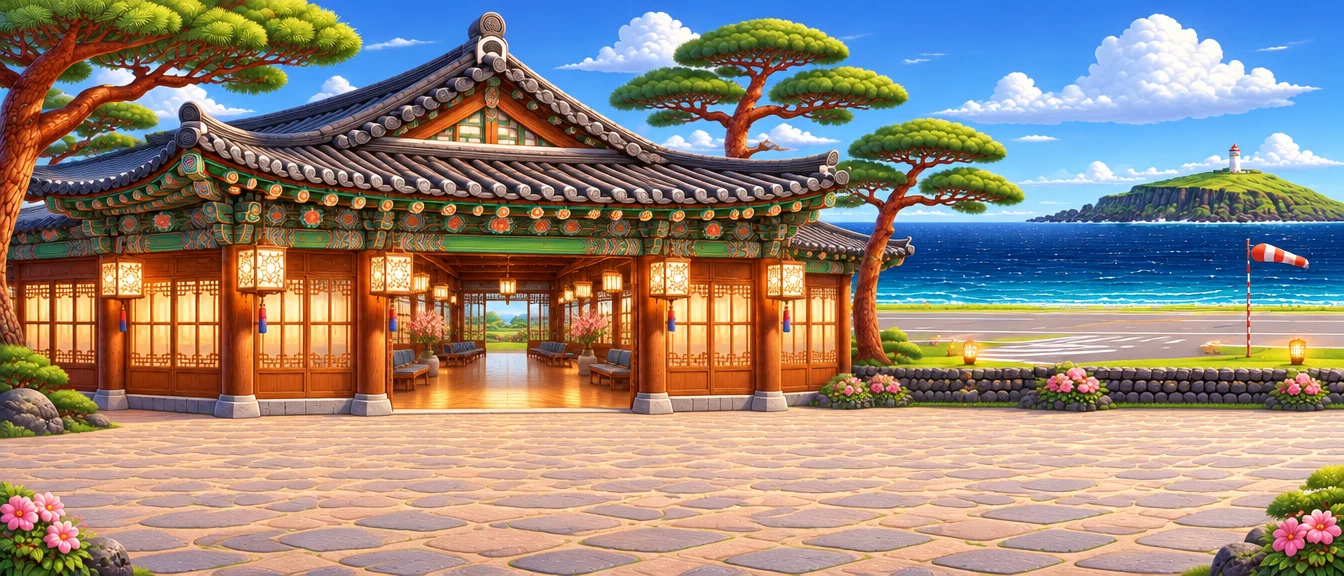
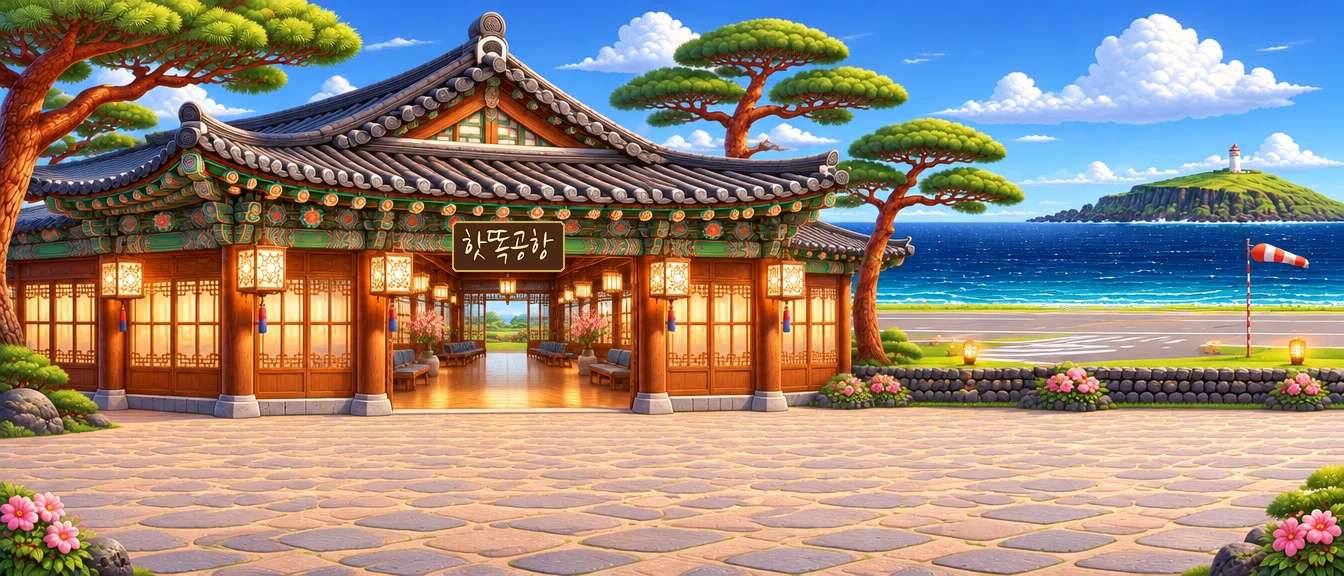
핫똑랜드 예시판: 내리면 심사대 앞, 공항 안에서 마을 출구, 3장 넓이 마을·붓글씨 현판·길 안내판, 진돌카이저 궁 내부, 카피랜드와 같은 강아지 대화창
Claude-Session: https://claude.ai/code/session_015t7mweLLBzEFYGgsGmysr6

Changed region(s): [[0.3125, 0.375, 0.4375, 0.5]]

diff --git a/js/hotddok.js b/js/hotddok.js
@@ -1,10 +1,10 @@
 // 핫똑랜드 — 비행기로만 가는 강아지 섬. 한옥 공항 → 공항 안(입국 심사대) → 기와 마을(진돌카이막 장군 동상 · 상점 · 옷가게 · 훈련소 · 진돌카이저 궁 · 어두운 바다)
-// 지금은 예시판: 걷기 · 강아지 30종과 왕실 3마리 · 첫 반응 · 환영 그림까지. 친밀도 · 상점 · 퀘스트는 다음 차례
+// 지금은 예시판: 내리면 입국 심사대 앞 → 공항 안에서 마을 출구로 → 카피랜드만큼 넓은 마을(3장) → 진돌카이저 궁 안. 상점 · 퀘스트는 다음 차례
 import { h, toast, modal, holdBtn } from './ui.js';
 import { capy } from './capy.js';
 import { sfx, bgm } from './sound.js';
 
-const BG_W = 1344, BG_H = 576, IMG = 'img/hd/';
+const BG_W = 1344, BG_H = 576, TOWN_W = 3912, IMG = 'img/hd/', V = '?v=2';
 // [이름, 견종, 상징품, 한마디]
 export const DOGS = [
   ['몽실', '말티즈 · 승무원', '🎀 복주머니', '핫똑랜드에 오신 것을 환영하옵니다, 폐하!'], ['송이', '말티즈 · 승무원', '🪭 부채', '폐하, 짐은 저희가 들겠사옵니다!'], ['곱슬', '푸들 · 기장', '🧭 나침반', '폐하를 모신 비행, 일생의 영광이었사옵니다!'],
@@ -21,71 +21,89 @@ const ROYAL = { king: ['진돌카이저 2세', '진돗개 호구 · 핫똑랜드
 const WOW = ['와! 설마 전설의 카피랜드 황금폐하?', '와!!!', '진짜야? 털에서 빛이 나!', '황금폐하가 오셨다~!', '꺄아, 실물이 더 귀여우셔!', '폐하, 여기 좀 봐 주세요!', '멍멍! 환영합니다!!', '세상에, 전설이 걸어 다녀…'];
 const CHAT = ['오늘은 소나무 향이 좋네요.', '기와 위에 햇볕이 따끈해요.', '폐하, 마을 구경은 하셨어요?', '바다 쪽은 물빛이 깊어요.', '훈련소 교관님은 무서워요…', '궁 앞에선 조용히 해야 해요.'];
 
+const QUICK = { good: ['오늘도 귀엽다!', '너 정말 멋져!', '만나서 반가워!', '털결이 곱다!', '넌 최고의 강아지야'], flat: ['안녕, 뭐 해?', '소나무 향 좋다', '밥은 먹었어?'], bad: ['너 좀 못생겼다', '저리 가, 냄새나', '멍청이 아니야?'] };
+const REPLY = { good: ['헤헤, 폐하께 칭찬받았다! 꼬리가 멈추질 않아요!', '황금폐하가 그렇게 말씀해 주시다니… 멍!', '오늘 일기에 꼭 쓸 거예요!'], flat: ['네, 폐하! 마을은 마음에 드세요?', '소나무 그늘에서 쉬다 가세요.', '방금 뼈다귀국 먹었어요!'], bad: ['끼잉… 폐하, 너무하세요.', '으르르… 아무리 폐하라도 그건 좀.', '귀가 축 처져요…'] };
+const LEVELS = [[-100, '원수', '💢'], [-30, '사이 나쁨', '😠'], [-5, '서먹', '😐'], [10, '아는 사이', '🙂'], [30, '친구', '😊'], [50, '친한 친구', '🥰'], [80, '단짝', '💖']];
+const pick = a => a[Math.floor(Math.random() * a.length)];
 export function openHotddok(o) {
-  const { ctx } = o, demo = !!o.demo; let alive = true, raf = 0, zone = 'air', lastT = performance.now();
-  const H = Math.max(280, Math.min(Math.round(innerHeight * 0.52), 520)), W = Math.round(H * BG_W / BG_H), DH = 84;
-  const Z = { air: { bg: 'air', base: 3, span: 26, title: '🐶 핫똑공항' }, in: { bg: 'inn', base: 3, span: 22, title: '🐶 핫똑공항 · 입국장' }, town: { bg: 'town', base: 11, span: 12, title: '🏯 핫똑랜드 마을' } };
-  const me = { x: W * 0.78, y: 0.3 }, meEl = h('div', { class: 'fm-me ap-me', html: capy(ctx.capyOf(ctx.uid, { face: 'happy' })) });
-  const npcs = { air: [], in: [], town: [] }, keys = new Set();
-  const mk = (z, key, x, y, fixed) => { const royal = typeof key === 'string', src = royal ? key : 'd' + key, info = royal ? ROYAL[key] : DOGS[key];
-    const el = h('img', { class: 'hd-dog' + (royal ? ' royal' : ''), src: `${IMG}${src}.webp?v=1`, alt: info[0], style: { height: (key === 'king' ? DH * 1.16 : royal ? DH * 1.1 : DH) + 'px' }, onClick: () => card(n) });
-    const n = { key, info, el, src, x: W * x, y, hx: W * x, tx: W * x, ty: y, wait: Math.random() * 3, fixed, say: null, sayT: 0 }; npcs[z].push(n); return n; };
-  // 공항 앞: 말티즈 승무원 둘과 푸들 기장이 맞이한다
-  mk('air', 0, 0.3, 0.95, 1); mk('air', 1, 0.44, 0.95, 1); mk('air', 2, 0.52, 0.8, 1);
-  mk('in', 1, 0.13, 1, 1); // 심사대의 승무원
-  // 마을: 궁 앞에 왕과 좌우 호위, 나머지는 길을 오간다
-  mk('town', 'gw', 0.805, 1.25, 1); mk('town', 'king', 0.86, 1.3, 1); mk('town', 'gb', 0.915, 1.25, 1); mk('town', 27, 0.63, 1.05, 1);
-  { const rest = DOGS.map((_, i) => i).filter(i => i !== 27) /* 승무원·기장도 마을을 돌아다닌다 */; rest.forEach((i, k) => mk('town', i, 0.1 + 0.66 * (k + 0.5) / rest.length + (k % 2 ? 0.012 : -0.012), (k * 0.37) % 1)); }
-  const worlds = {}; for (const z in Z) { worlds[z] = h('div', { class: 'fm-world ap-world hd-world', hidden: z !== zone, style: { width: W + 'px', height: H + 'px', backgroundImage: `url(${IMG}${Z[z].bg}.webp?v=1)` } }, ...npcs[z].map(n => n.el)); }
-  const scroller = h('div', { class: 'fm-scroll' }, worlds.air, worlds.in, worlds.town);
+  const { ctx } = o, demo = !!o.demo; let alive = true, raf = 0, zone = 'in', lastT = performance.now();
+  const H = Math.max(280, Math.min(Math.round(innerHeight * 0.52), 520)), W1 = Math.round(H * BG_W / BG_H), DH = 84;
+  const Z = { air: { bg: 'air', w: W1, base: 3, span: 26, title: '🐶 핫똑공항 · 활주로' }, in: { bg: 'inn', w: W1, base: 3, span: 22, title: '🐶 핫똑공항 · 입국장' }, town: { bg: 'town', w: Math.round(H * TOWN_W / BG_H), base: 13, span: 10, title: '🏯 핫똑랜드 마을' }, pal: { bg: 'pal', w: W1, base: 3, span: 22, title: '👑 진돌카이저 궁' } };
+  const me = { x: Z.in.w * 0.2, y: 0.55 }, meEl = h('div', { class: 'fm-me ap-me', html: capy(ctx.capyOf(ctx.uid, { face: 'happy' })) });
+  const npcs = { air: [], in: [], town: [], pal: [] }, keys = new Set(), rel = {}, mem = {}; // 친밀도 · 나눈 말(예시판은 이번 방문 동안만)
+  const mk = (z, key, x, y, fixed, b) => { const royal = typeof key === 'string', src = royal ? key : 'd' + key, info = royal ? ROYAL[key] : DOGS[key], W = Z[z].w;
+    const n = { key, info, src, x: W * x, y, hx: W * x, tx: W * x, ty: y, wait: Math.random() * 3, fixed, b, say: null, sayT: 0 };
+    n.el = h('img', { class: 'hd-dog' + (royal ? ' royal' : ''), src: `${IMG}${src}.webp?v=1`, alt: info[0], style: { height: (key === 'king' ? DH * 1.2 : royal ? DH * 1.1 : DH) + 'px' }, onClick: () => meet(n) }); npcs[z].push(n); return n; };
+  mk('air', 2, 0.6, 0.85, 1); mk('in', 1, 0.13, 1, 1); mk('in', 0, 0.3, 0.9, 1); // 활주로 쪽엔 기장, 심사대엔 승무원 둘
+  DOGS.forEach((_, i) => i === 27 ? mk('town', 27, 0.455, 1.02, 1) : mk('town', i, 0.04 + 0.87 * ((i * 7) % 30 + 0.5) / 30, (i * 0.37) % 1)); // 30마리가 넓은 마을을 돌아다닌다(교관은 훈련소 앞)
+  mk('pal', 'king', 0.5, 0, 1, 37); mk('pal', 'gw', 0.39, 0.95, 1); mk('pal', 'gb', 0.61, 0.95, 1); // 왕은 궁 안 옥좌에, 좌우에 백구 · 흑구
+  const sign = (z, x, t, b) => h('span', { class: 'hd-sign', style: { left: Z[z].w * x + 'px', bottom: (b != null ? b : z === 'town' ? 1.5 : Z[z].base + Z[z].span + 21) + '%' } }, t); // 마을은 길 아래 꽃밭에, 실내는 머리 위에
+  const SIGNS = { in: [[0.2, '🛂 입국 심사대'], [0.54, '⬆ 마을로 가는 길'], [0.9, '활주로로 가는 길 ➡']], air: [[0.37, '⬆ 공항 안으로 가는 길'], [0.8, '✈ 타고 온 비행기']], pal: [[0.92, '마을로 나가는 길 ➡'], [0.5, '👑 옥좌', 62]],
+    town: [[0.012, '⬅ 핫똑공항 가는 길'], [0.085, '마을 입구 · 상점가 ➡'], [0.335, '⬅ 상점가 · 훈련소 ➡'], [0.58, '⬅ 훈련소 · 진돌카이저 궁 ➡'], [0.78, '진돌카이저 궁 ➡'], [0.837, '⬆ 궁 안으로 가는 길'], [0.91, '⬅ 궁 · 바다 ➡']] };
+  const plane = z => h('img', { class: 'hd-plane ' + z, src: 'img/air/plane.webp?v=4', alt: '' }); // 타고 온 비행기: 활주로에 그대로 서 있다
+  const worlds = {}; for (const z in Z) { worlds[z] = h('div', { class: 'fm-world ap-world hd-world', hidden: z !== zone, style: { width: Z[z].w + 'px', height: H + 'px', backgroundImage: `url(${IMG}${Z[z].bg}.webp${V})` } }, (z === 'air' || z === 'in') && plane(z), ...SIGNS[z].map(a => sign(z, ...a)), ...npcs[z].map(n => n.el)); }
+  const scroller = h('div', { class: 'fm-scroll' }, ...Object.values(worlds));
   const dpad = h('div', { class: 'dpad ap-dpad' }, [['U', '▲'], ['L', '◀'], ['D', '▼'], ['R', '▶']].map(([k, t]) => { const b = h('button', { class: 'dp ap-dp ap-' + k, 'aria-label': { L: '왼쪽', R: '오른쪽', U: '위', D: '아래' }[k] }, t); holdBtn(b, () => { keys.add(k); b.classList.add('held'); }, () => { keys.delete(k); b.classList.remove('held'); }); return b; }));
   const aLab = h('small', null, '인사'), aBtn = h('button', { class: 'ap-ab ap-a', disabled: true, 'aria-label': 'A', onClick: () => { sfx('keyA'); act && act.go(); } }, aLab);
-  const bBtn = h('button', { class: 'ap-ab ap-b', 'aria-label': 'B', onClick: () => { sfx('keyB'); if (zone === 'in') go('air', 0.37, 0.9); else if (zone === 'town') go('air', 0.1, 0.4); else toast('카피랜드로 돌아가려면 공항 안 심사대로 가요 ✈', 1800); } }, h('small', null, '나가기'));
-  const chatBtn = h('button', { class: 'ap-chat', 'aria-label': '말하기', onClick: () => { sfx('keyC'); npcs[zone].filter(n => Math.abs(n.x - me.x) < W * 0.2).slice(0, 4).forEach(n => say(n, n.info[3])); } });
+  const bBtn = h('button', { class: 'ap-ab ap-b', 'aria-label': 'B', onClick: () => { sfx('keyB'); if (zone === 'pal') go('town', 0.837, 0.9); else if (zone === 'town' || zone === 'air') go('in', zone === 'town' ? 0.54 : 0.86, 0.6); else toast('카피랜드로 돌아가려면 심사대에서 말해요 ✈', 1800); } }, h('small', null, '나가기'));
+  const chatBtn = h('button', { class: 'ap-chat', 'aria-label': '말하기', onClick: () => { sfx('keyC'); npcs[zone].filter(n => Math.abs(n.x - me.x) < 260).slice(0, 4).forEach(n => say(n, n.info[3])); } });
   const scene = h('div', { class: 'fm-scene' }, scroller, h('div', { class: 'fm-pad ap-pad' }, dpad, h('div', { class: 'ap-acts' }, chatBtn, bBtn, aBtn)));
-  const title = h('b', null, Z.air.title);
+  const title = h('b', null, Z[zone].title);
   const wrap = h('div', { class: 'fm ap hd' }, h('div', { class: 'fm-top' }, title, demo && h('span', { class: 'ap-flight' }, '🧪 예시판'), h('button', { class: 'top-x', 'aria-label': '닫기', onClick: () => leave() }, '✕')), scene);
   document.body.append(wrap); bgm.start('hotddok'); worlds[zone].append(meEl);
   const onKey = e => { const k = { ArrowLeft: 'L', ArrowRight: 'R', ArrowUp: 'U', ArrowDown: 'D' }[e.key] || ''; if (!k || document.querySelector('.modal-wrap')) return; e.preventDefault(); if (e.type === 'keydown') keys.add(k); else keys.delete(k); };
   window.addEventListener('keydown', onKey); window.addEventListener('keyup', onKey);
   requestAnimationFrame(() => { scroller.scrollLeft = me.x - scroller.clientWidth / 2; });
 
-  let act = null, seenTown = false;
-  function go(z, x, y) { sfx('pop'); worlds[zone].hidden = true; zone = z; worlds[z].hidden = false; me.x = W * x; me.y = y == null ? 0.3 : y; worlds[z].append(meEl); title.textContent = Z[z].title; scroller.scrollLeft = Math.max(0, me.x - scroller.clientWidth / 2);
-    if (z === 'town' && !seenTown) { seenTown = true; welcome(); } }
+  let act = null, seenTown = false, seenKing = false;
+  function go(z, x, y) { sfx('pop'); worlds[zone].hidden = true; zone = z; worlds[z].hidden = false; me.x = Z[z].w * x; me.y = y == null ? 0.3 : y; worlds[z].append(meEl); title.textContent = Z[z].title; scroller.scrollLeft = Math.max(0, me.x - scroller.clientWidth / 2);
+    if (z === 'town' && !seenTown) { seenTown = true; welcome(); } if (z === 'pal' && !seenKing) { seenKing = true; setTimeout(() => alive && zone === 'pal' && say(npcs.pal[0], '오오! 전설의 카피랜드 황금폐하가 아니시오!', 4), 600); } }
   function say(n, t, sec = 3) { if (!n.say) { n.say = h('span', { class: 'ap-say' }); worlds[zone].append(n.say); } n.say.textContent = t; n.say.hidden = false; n.say.classList.remove('pop'); void n.say.offsetWidth; n.say.classList.add('pop'); n.sayT = sec; }
-  function card(n) { sfx('pop'); say(n, n.info[3]); modal({ title: `🐶 ${n.info[0]}`, body: [h('div', { class: 'ap-cnt hd-card' }, h('img', { src: `${IMG}${n.src}.webp?v=1`, alt: '' }), h('p', null, h('b', null, n.info[1])), h('p', null, `“${n.info[3]}”`), h('p', { class: 'ap-cnt-s' }, `상징품: ${n.info[2]}`), h('p', { class: 'ap-cnt-n' }, '친밀도 · 선물 · 거래는 곧 열려요'))], actions: [{ label: '닫기' }] }); }
+  // 강아지를 누르면: 카피랜드 동물과 같은 구성(얼굴 · 말풍선 · 친밀도 · 빠른 말 세 가지 · 말하기 · 선물/거래/기억)
+  function meet(n) { sfx('pop'); const k = n.src, A = () => rel[k] || 0, lvOf = v => LEVELS.filter(l => l[0] <= v).pop() || LEVELS[0];
+    const bubble = h('p', { class: 'so-bubble' }), meter = h('div', { class: 'so-meter' }), quick = h('div', { class: 'so-quick' }), input = h('input', { class: 'so-input', maxLength: 60, placeholder: `${n.info[0]}에게 하고 싶은 말`, enterKeyHint: 'send' });
+    const tell = (t, cls = '') => { bubble.className = 'so-bubble ' + cls; bubble.textContent = t; };
+    const draw = () => { const v = A(), lv = lvOf(v), nx = LEVELS.find(l => l[0] > v); meter.replaceChildren(h('b', null, `${lv[2]} ${lv[1]}`), h('i', null, h('u', { style: { width: (v + 100) / 2 + '%', background: v < 0 ? '#E5484D' : v >= 50 ? '#FF7FA8' : '#57C26B' } })), h('span', null, `${v}점${nx ? ` · ${nx[1]}까지 ${nx[0] - v}` : ''}`)); };
+    const talk = (t, kind) => { t = String(t || '').trim(); if (!t) return; input.value = ''; const d = kind === 'good' ? 2 : kind === 'bad' ? -3 : 1, r = pick(REPLY[kind || 'flat']); rel[k] = Math.max(-100, Math.min(100, A() + d)); (mem[k] = mem[k] || []).push({ s: t, r, d }); tell(r, d > 0 ? 'glad' : 'angry'); sfx(d > 0 ? 'coin' : 'bad'); const f = h('em', { class: 'so-float ' + (d > 0 ? 'up' : 'down') }, (d > 0 ? '+' : '') + d); meter.append(f); setTimeout(() => f.remove(), 1200); draw(); meter.append(f); drawQuick(); };
+    const drawQuick = () => quick.replaceChildren(...['good', 'flat', 'bad'].map((kd, i) => { const t = pick(QUICK[kd]); return h('button', { class: 'so-q q' + i, onClick: () => talk(t, kd) }, t); }));
+    const soon = t => () => toast(`${t}는 곧 열려요 🚧`, 1500);
+    const memBtn = () => { const m = mem[k] || []; modal({ title: `📜 ${n.info[0]}가 기억하는 말`, body: m.length ? h('div', { class: 'so-mem' }, m.slice().reverse().map(x => h('p', null, h('b', null, `나: ${x.s}`), h('span', null, `${n.info[0]}: ${x.r}`), h('em', { class: x.d > 0 ? 'up' : 'down' }, (x.d > 0 ? '+' : '') + x.d)))) : h('p', { class: 'center' }, '아직 나눈 말이 없어요.'), actions: [{ label: '닫기', primary: true }] }); };
+    modal({ title: `${n.info[0]} · ${n.info[1]}`, body: h('div', { class: 'so-meet hd-meet' }, h('div', { class: 'so-face' }, h('span', null, h('img', { src: `${IMG}${k}.webp?v=1`, alt: '' })), bubble), meter, h('p', { class: 'so-fed' }, `상징품 ${n.info[2]} · 친한 친구(50점)가 되면 받아요`), quick,
+      h('div', { class: 'so-say' }, input, h('button', { class: 'btn primary', onClick: () => talk(input.value) }, '말하기')),
+      h('div', { class: 'so-acts' }, h('button', { class: 'btn', onClick: soon('🔍 퀘스트') }, '🔍 퀘스트'), h('button', { class: 'btn', onClick: soon('🎁 선물') }, '🎁 선물'), h('button', { class: 'btn', onClick: soon('🤝 거래') }, '🤝 거래'), h('button', { class: 'btn', onClick: memBtn }, '📜 기억'))), actions: [{ label: '닫기' }] });
+    tell(n.info[3]); draw(); drawQuick(); }
   const soon = t => () => toast(`${t} — 곧 문을 열어요 🚧`, 1600);
   function statue() { modal({ title: '🗿 진돌카이막 장군 동상', body: [h('div', { class: 'ap-cnt hd-card' }, h('img', { class: 'hd-gen', src: 'img/quest/bg-h2.webp', alt: '' }), h('p', null, h('b', null, '핫똑랜드를 세운 개국 장군')), h('p', null, '“팔짱을 끼고 바다를 지켜본 지 어언 백 년.”'), h('p', { class: 'ap-cnt-n' }, '마을 강아지들은 지나갈 때마다 꼬리를 한 번씩 흔들어요'))], actions: [{ label: '닫기' }] }); }
   function counter() { modal({ title: '🛂 입국 심사대', body: [h('div', { class: 'ap-cnt hd-card' }, h('img', { src: `${IMG}d1.webp?v=1`, alt: '' }), h('p', null, '폐하, 카피랜드로 돌아가시겠사옵니까?'), demo && h('p', { class: 'ap-cnt-n' }, '🧪 예시판: 누르면 바로 카피공항으로 돌아가요'))], actions: [{ label: '더 구경하기' }, { label: '✈ 카피랜드로 돌아가기', primary: true, onClick: () => leave() }] }); }
   // 지금 자리에서 A 버튼으로 할 수 있는 일
-  function findAct() { const x = me.x / W;
-    if (zone === 'air') return Math.abs(x - 0.37) < 0.07 && me.y > 0.5 ? { t: '입장', go: () => go('in', 0.86, 0.3) } : x < 0.07 ? { t: '마을', go: () => go('town', 0.06, 0.4) } : near();
-    if (zone === 'in') return x > 0.8 ? { t: '밖으로', go: () => go('air', 0.37, 0.9) } : x < 0.24 ? { t: '심사대', go: counter } : near();
-    if (x < 0.035) return { t: '공항', go: () => go('air', 0.1, 0.4) };
-    const d = near(); if (d) return d;
-    return x < 0.21 ? { t: '동상', go: statue } : x < 0.37 ? { t: '상점', go: soon('🪃 특산품 상점(부메랑)') } : x < 0.56 ? { t: '옷가게', go: soon('👘 한복 옷가게') } : x < 0.72 ? { t: '훈련소', go: soon('🎯 훈련소') } : x < 0.95 ? { t: '알현', go: () => card(npcs.town[1]) } : null; }
-  function near() { let best = null, bd = 46; for (const n of npcs[zone]) { const d = Math.hypot(n.x - me.x, (n.y - me.y) * 30); if (d < bd) { bd = d; best = n; } } return best ? { t: '인사', go: () => card(best) } : null; }
+  function findAct() { const x = me.x / Z[zone].w, up = me.y > 0.5;
+    if (zone === 'air') return Math.abs(x - 0.37) < 0.07 && up ? { t: '입장', go: () => go('in', 0.86, 0.5) } : near();
+    if (zone === 'in') return x > 0.8 ? { t: '활주로', go: () => go('air', 0.37, 0.9) } : Math.abs(x - 0.54) < 0.08 && up ? { t: '마을', go: () => go('town', 0.03, 0.5) } : x < 0.26 && up ? { t: '심사대', go: counter } : near();
+    if (zone === 'pal') return x > 0.86 ? { t: '마을', go: () => go('town', 0.837, 0.9) } : Math.abs(x - 0.5) < 0.09 && up ? { t: '알현', go: () => meet(npcs.pal[0]) } : near();
+    if (x < 0.012) return { t: '공항', go: () => go('in', 0.54, 0.6) };
+    if (up) { const b = [[0.1, 0.16, '동상', statue], [0.156, 0.196, '상점', soon('🪃 부메랑상회')], [0.21, 0.256, '옷가게', soon('👘 비단옷집')], [0.276, 0.318, '찻집', soon('🍵 솔향찻집')], [0.35, 0.396, '떡집', soon('🍡 꿀떡방')], [0.41, 0.51, '훈련소', soon('🎯 훈련소')], [0.815, 0.86, '입궁', () => go('pal', 0.84, 0.3)]].find(r => x >= r[0] && x <= r[1]); if (b) return { t: b[2], go: b[3] }; }
+    return near(); }
+  function near() { let best = null, bd = 46; for (const n of npcs[zone]) { const d = Math.hypot(n.x - me.x, (n.y - me.y) * 30); if (d < bd) { bd = d; best = n; } } return best ? { t: '인사', go: () => meet(best) } : null; }
   // 입국 도장: 내리자마자 여권이 펼쳐지고 "입국" 도장이 쾅
-  function stamp() { const bub = h('span', { class: 'apv-say' }, '폐하, 여권을 받들겠사옵니다…'), ok = h('button', { class: 'btn primary apv-ok', onClick: () => { el.remove(); npcs.air.forEach((n, i) => setTimeout(() => alive && say(n, n.info[3], 3.5), 300 + i * 700)); } }, '🐾 핫똑랜드 입국하기');
+  function stamp() { const bub = h('span', { class: 'apv-say' }, '폐하, 여권을 받들겠사옵니다…'), ok = h('button', { class: 'btn primary apv-ok', onClick: () => { el.remove(); npcs.in.forEach((n, i) => setTimeout(() => alive && zone === 'in' && say(n, n.info[3], 3.5), 300 + i * 700)); } }, '🐾 핫똑랜드 입국하기');
     const page = h('div', { class: 'apv-page' }, h('div', { class: 'apv-photo', html: capy(ctx.capyOf(ctx.uid, { face: 'smile' })) }), h('dl', null, h('dt', null, '국적'), h('dd', null, '카피랜드'), h('dt', null, '직위'), h('dd', null, '카피황금폐하'), h('dt', null, '도착지'), h('dd', null, '핫똑랜드')), h('div', { class: 'apv-stamp hd-in' }, h('b', null, '입국'), h('small', null, 'HOTDDOK LAND')));
     const el = h('div', { class: 'apv' }, h('p', { class: 'apv-t' }, '🛂 핫똑랜드 입국 심사'), h('div', { class: 'apv-book' }, page, h('img', { class: 'apv-cover', src: 'img/quest/passport.webp', alt: '' })), h('div', { class: 'apv-crew' }, h('img', { src: `${IMG}d0.webp?v=1`, alt: '' }), h('img', { src: `${IMG}d2.webp?v=1`, alt: '' }), h('img', { src: `${IMG}d1.webp?v=1`, alt: '' }), bub), ok);
     document.body.append(el); sfx('pop'); setTimeout(() => el.isConnected && sfx('boom'), 1950); setTimeout(() => { if (!el.isConnected) return; bub.textContent = '어서 오시옵소서, 황금폐하!!'; bub.classList.add('bow'); el.classList.add('done'); sfx('fanfare'); }, 2350); }
   // 마을 첫 입장: 진돌카이저와 강아지들이 환영하는 그림 → 닫으면 여기저기서 "와!!!"
   function welcome() { const el = h('div', { class: 'hd-wel', onClick: () => { el.remove(); wow(); } }, h('img', { src: `${IMG}welcome.webp?v=1`, alt: '' }), h('b', null, '🎉 핫똑랜드에 오신 것을 환영합니다!'), h('small', null, '진돌카이저 2세와 강아지들이 마중 나왔어요 · 눌러서 들어가기')); document.body.append(el); sfx('fanfare'); }
-  function wow() { const list = npcs.town.filter(n => typeof n.key !== 'string').sort((a, b) => Math.abs(a.x - me.x) - Math.abs(b.x - me.x)); list.forEach((n, i) => { n.el.classList.add('wow'); setTimeout(() => n.el.classList.remove('wow'), 2600); if (i < WOW.length) setTimeout(() => alive && zone === 'town' && say(n, WOW[i], 2.6), i * 420); }); }
+  function wow() { const list = npcs.town.slice().sort((a, b) => Math.abs(a.x - me.x) - Math.abs(b.x - me.x)); list.forEach((n, i) => { n.el.classList.add('wow'); setTimeout(() => n.el.classList.remove('wow'), 2600); if (i < WOW.length) setTimeout(() => alive && zone === 'town' && say(n, WOW[i], 2.6), i * 420); }); }
 
   let talkAt = 6;
   function step(t) { if (!alive) return; const dt = Math.min(0.05, (t - lastT) / 1000); lastT = t; const zz = Z[zone], modalOn = !!document.querySelector('.modal-wrap,.apv,.hd-wel');
     const dx = modalOn ? 0 : (keys.has('R') ? 1 : 0) - (keys.has('L') ? 1 : 0), dy = modalOn ? 0 : (keys.has('U') ? 1 : 0) - (keys.has('D') ? 1 : 0);
-    me.x = Math.max(W * 0.02, Math.min(W * 0.98, me.x + dx * 150 * dt)); me.y = Math.max(0, Math.min(1, me.y + dy * 1.1 * dt)); meEl.classList.toggle('walk', !!(dx || dy)); if (dx) meEl.classList.toggle('left', dx < 0);
+    const W = zz.w; me.x = Math.max(W * 0.005, Math.min(W * 0.99, me.x + dx * 150 * dt)); me.y = Math.max(0, Math.min(1, me.y + dy * 1.1 * dt)); meEl.classList.toggle('walk', !!(dx || dy)); if (dx) meEl.classList.toggle('left', dx < 0);
     meEl.style.left = me.x + 'px'; meEl.style.bottom = `${zz.base + me.y * zz.span}%`; meEl.style.transform = `translateX(-50%) scale(${(1 - me.y * 0.14).toFixed(3)})`; meEl.style.zIndex = String(20 - Math.round(me.y * 10));
     const want = me.x - scroller.clientWidth / 2; if (Math.abs(scroller.scrollLeft - want) > 4 && (dx || dy)) scroller.scrollLeft += (want - scroller.scrollLeft) * Math.min(1, dt * 6);
-    for (const n of npcs[zone]) { if (!n.fixed) { if (n.wait > 0) { n.wait -= dt; n.el.classList.remove('go'); if (n.wait <= 0) { n.tx = Math.max(W * 0.05, Math.min(W * 0.95, n.hx + (Math.random() - 0.5) * W * 0.16)); n.ty = Math.random(); } }
+    for (const n of npcs[zone]) { if (!n.fixed) { if (n.wait > 0) { n.wait -= dt; n.el.classList.remove('go'); if (n.wait <= 0) { n.tx = Math.max(W * 0.03, Math.min(W * 0.925, n.hx + (Math.random() - 0.5) * 520)); n.ty = Math.random(); } }
         else { const ex = n.tx - n.x, ey = (n.ty - n.y) * 60, d = Math.hypot(ex, ey); if (d < 3) n.wait = 1.5 + Math.random() * 4; else { n.x += ex / d * 34 * dt; n.y += ey / d * 34 * dt / 60; n.el.classList.add('go'); } } }
-      n.el.style.left = n.x + 'px'; n.el.style.bottom = `${zz.base + n.y * zz.span}%`; n.el.style.zIndex = String(20 - Math.round(n.y * 10)); n.el.style.setProperty('--s', (1 - Math.min(1, n.y) * 0.14).toFixed(3));
-      if (n.say && !n.say.hidden) { if ((n.sayT -= dt) <= 0) n.say.hidden = true; else { n.say.style.left = n.x + 'px'; n.say.style.bottom = `calc(${zz.base + n.y * zz.span}% + ${n.el.offsetHeight + 4}px)`; n.say.style.zIndex = '40'; } } }
-    if (!modalOn && (talkAt -= dt) <= 0) { talkAt = 4 + Math.random() * 4; const c = npcs[zone].filter(n => Math.abs(n.x - me.x) < W * 0.3); if (c.length) { const n = c[Math.floor(Math.random() * c.length)]; say(n, Math.random() < 0.5 ? n.info[3] : (zone === 'town' ? CHAT : WOW)[Math.floor(Math.random() * 6)]); } }
+      n.el.style.left = n.x + 'px'; n.el.style.bottom = `${n.b != null ? n.b : zz.base + n.y * zz.span}%`; n.el.style.zIndex = String(20 - Math.round(n.y * 10)); n.el.style.setProperty('--s', (1 - Math.min(1, n.y) * 0.14).toFixed(3));
+      if (n.say && !n.say.hidden) { if ((n.sayT -= dt) <= 0) n.say.hidden = true; else { n.say.style.left = n.x + 'px'; n.say.style.bottom = `calc(${n.b != null ? n.b : zz.base + n.y * zz.span}% + ${n.el.offsetHeight + 4}px)`; n.say.style.zIndex = '40'; } } }
+    if (!modalOn && (talkAt -= dt) <= 0) { talkAt = 4 + Math.random() * 4; const c = npcs[zone].filter(n => Math.abs(n.x - me.x) < 300); if (c.length) { const n = c[Math.floor(Math.random() * c.length)]; say(n, Math.random() < 0.5 ? n.info[3] : (zone === 'town' ? CHAT : WOW)[Math.floor(Math.random() * 6)]); } }
     act = modalOn ? null : findAct(); if (aBtn.disabled === !!act) { aBtn.disabled = !act; aBtn.classList.toggle('ready', !!act); } if (act && aLab.textContent !== act.t) aLab.textContent = act.t;
     raf = requestAnimationFrame(step); }
   raf = requestAnimationFrame(step);

diff --git a/css/app.css b/css/app.css
@@ -3245,3 +3245,8 @@ img.kb-sic { width: 30px; height: 30px; object-fit: contain; display: block; mar
 .ap-landbg { position: absolute; inset: 0; background: url(../img/hd/air.webp?v=1) 100% 50% / auto 100% no-repeat; opacity: 0; transition: opacity 1.6s ease-in-out; z-index: 1; } .ap-landbg.on { opacity: 1; }
 .ap-sky.landing .ap-cloud { transition: opacity 1s; opacity: 0 !important; }
 .ap-ride-rig.air.down { animation: none; z-index: 2; transition: left 4.2s cubic-bezier(.2,.6,.3,1), top 4.2s cubic-bezier(.3,0,.4,1), width 4.2s ease-in-out, rotate 4.2s ease-out; left: 66%; top: 61%; width: min(40%, 190px); rotate: 0deg; }
+.hd-sign { position: absolute; transform: translateX(-50%); z-index: 30; padding: 4px 9px; border-radius: 8px; background: #6B4423; color: #FFE9B8; border: 2px solid #3E2511; font: 900 11px/1.2 var(--head); white-space: nowrap; box-shadow: 0 2px 0 #3E2511; pointer-events: none; }
+
+.hd-plane { position: absolute; pointer-events: none; z-index: 1; filter: drop-shadow(0 3px 3px rgba(0,0,0,.2)); }
+.hd-plane.air { left: 71%; bottom: 39%; width: 17%; } .hd-plane.in { left: 88.2%; bottom: 44%; width: 7%; z-index: 0; }
+.hd-meet .so-face > span { display: block; } .hd-meet .so-face > span img { width: 88px; height: auto; display: block; }
